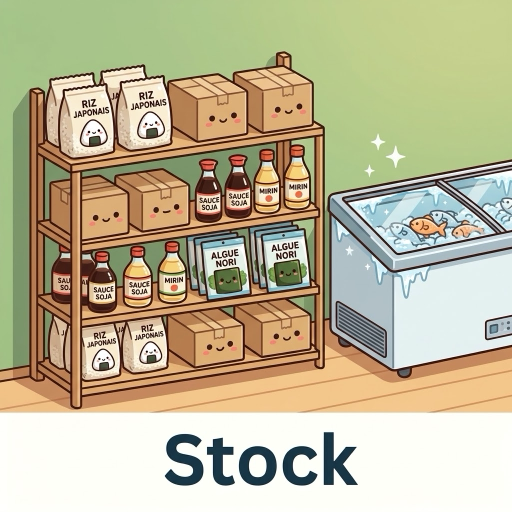
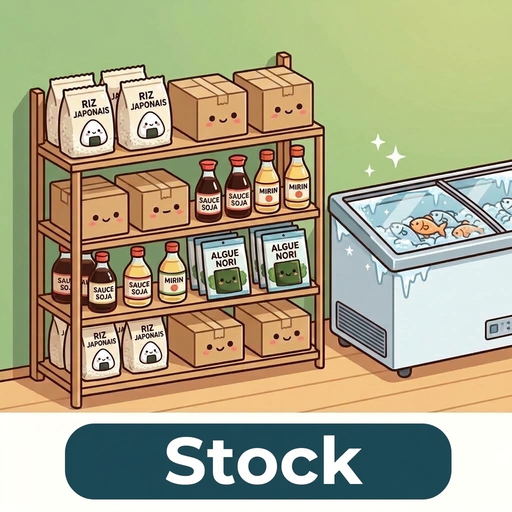
feat(accueil): les deux titres de section s'affichent à l'identique
Nouvelle version du visuel Stock fournie par Lénaïc : la pastille foncée
répond maintenant à celle de Suivi, les deux titres sont construits pareil.

Suivi remis au carré (512x512) en le recentrant sur sa propre couleur de
fond plutôt qu'en le déformant : les deux images s'affichent désormais
exactement à la même taille, sans qu'un titre paraisse plus large.

Carte blanche retirée : elle jurait avec le fond vert de Suivi, et n'avait
plus d'utilité une fois les deux visuels au même format. L'image est le
titre, avec l'arrondi 18 de la charte.

Claude-Session: https://claude.ai/code/session_014qU427z5gzvDvYT3tww4Wh

diff --git a/index.html b/index.html
@@ -682,14 +682,14 @@
            haut sur un iPhone et repousserait les cartes hors de l'écran. On
            la contient donc en hauteur, posée sur une carte blanche dont le
            fond prolonge la bande blanche du bas de l'image. */
+        /* Les deux visuels sont carrés et de même taille : ils s'affichent
+           donc à l'identique, sans qu'un titre paraisse plus large que
+           l'autre. Pas de carte derrière — l'image EST le titre, et un
+           cadre blanc jurerait avec le fond vert de l'un des deux. */
         .accueil-section-image {
             display: block;
-            width: 100%;
-            background: white;
-            border-radius: 18px;
-            box-shadow: 0 4px 15px rgba(0,0,0,0.08);
+            text-align: center;
             margin: 22px 0 12px;
-            overflow: hidden;
         }
 
         #categories-container .accueil-section-image:first-child { margin-top: 0; }
@@ -697,9 +697,10 @@
         .accueil-section-image img {
             display: block;
             height: 150px;
-            width: auto;
+            width: 150px;
             margin: 0 auto;
-            object-fit: contain;
+            border-radius: 18px;
+            box-shadow: 0 4px 15px rgba(0,0,0,0.08);
         }
 
         #categories-container { margin-top: 20px; }
@@ -2345,8 +2346,8 @@
     <div id="product-menu-backdrop"></div>
 
     <!-- SCRIPTS -->
-<script src="config.js?v=20261001"></script>
-    <script src="database.js?v=20261001"></script>
-    <script src="app.js?v=20261001"></script>
+<script src="config.js?v=20261002"></script>
+    <script src="database.js?v=20261002"></script>
+    <script src="app.js?v=20261002"></script>
 </body>
 </html>
